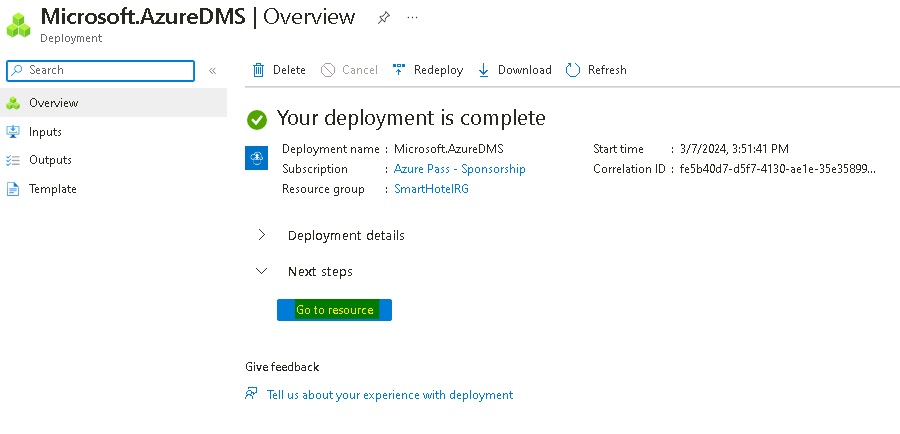
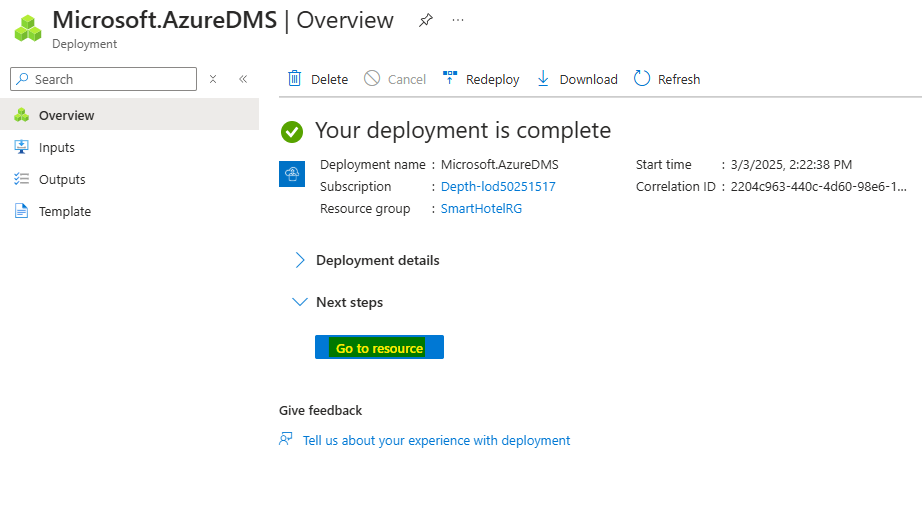
Lab 4 updates

diff --git a/Lab Guides/Lab 04 - Migrating the application database/Lab 04  - Migrating the application database from on-premises environment to Azure.MD b/Lab Guides/Lab 04 - Migrating the application database/Lab 04  - Migrating the application database from on-premises environment to Azure.MD
@@ -136,7 +136,7 @@ generated](./media/image8.jpeg)
 5.  On the Create Data Migration Service page, Basics tab, provide the
     below details.
 
-    - Subscription -- **Azure Pass -- Sponsorship**
+    - Subscription -- **Depth-@lab.CloudSubscription.Id**
 
     - Resource group: **SmartHotelRG**
 
@@ -147,12 +147,12 @@ generated](./media/image8.jpeg)
     - Click on **Review + create**
 
     ![A screenshot of a data migration service Description automatically
-generated](./media/image9.jpeg)
+generated](./media/image9.png)
 
 6.  On the **Review + create** tab, click on the **Create** button.
 
     ![A screenshot of a computer Description automatically
-generated](./media/image10.jpeg)
+generated](./media/image10.png)
 
 7.  The Deployment should be completed in few seconds, click on **Go to
     resource** button.
